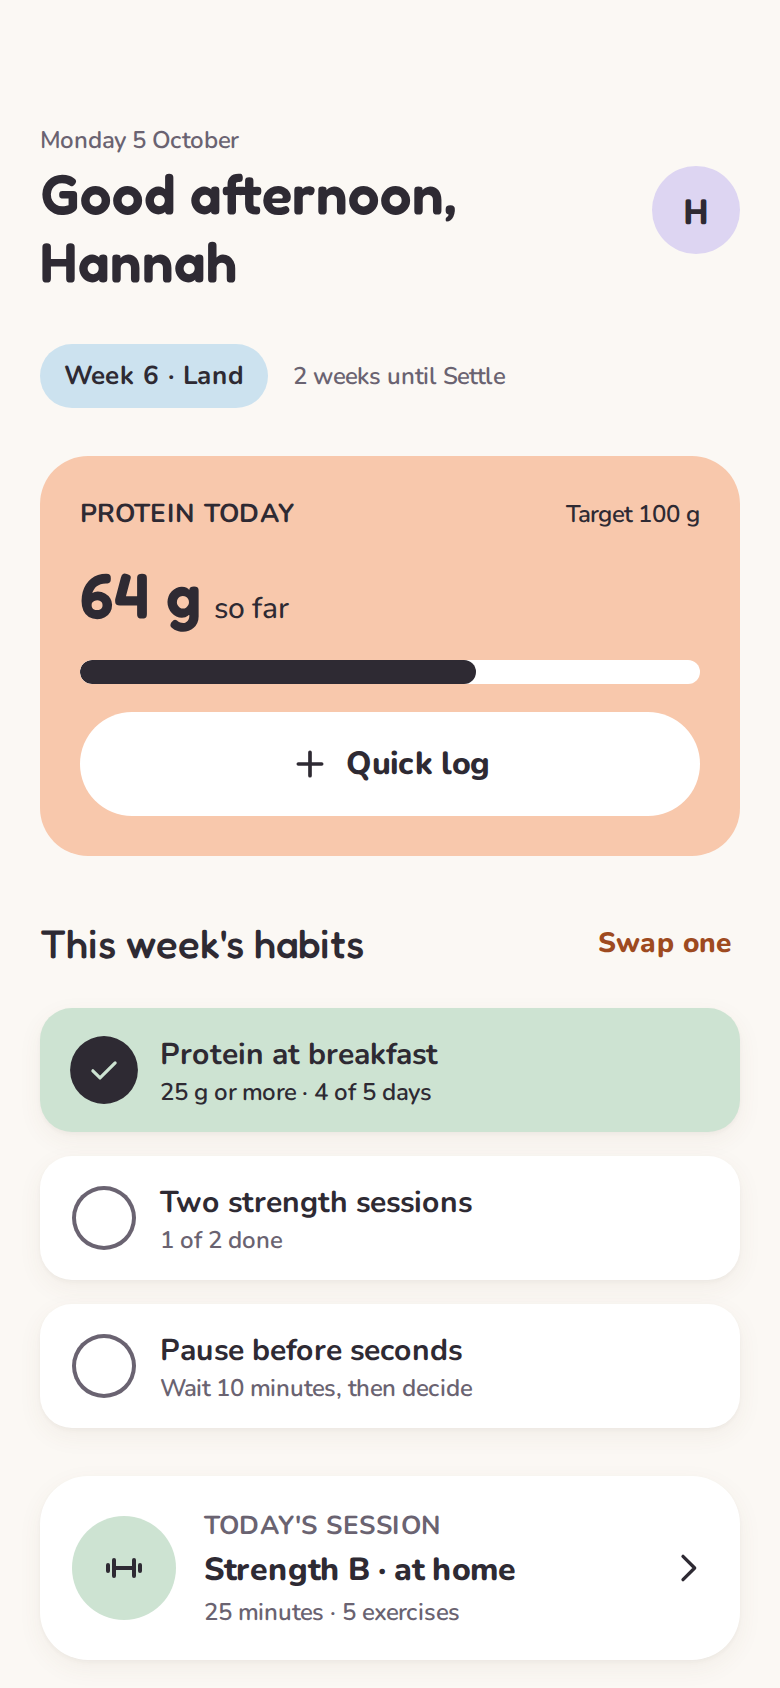
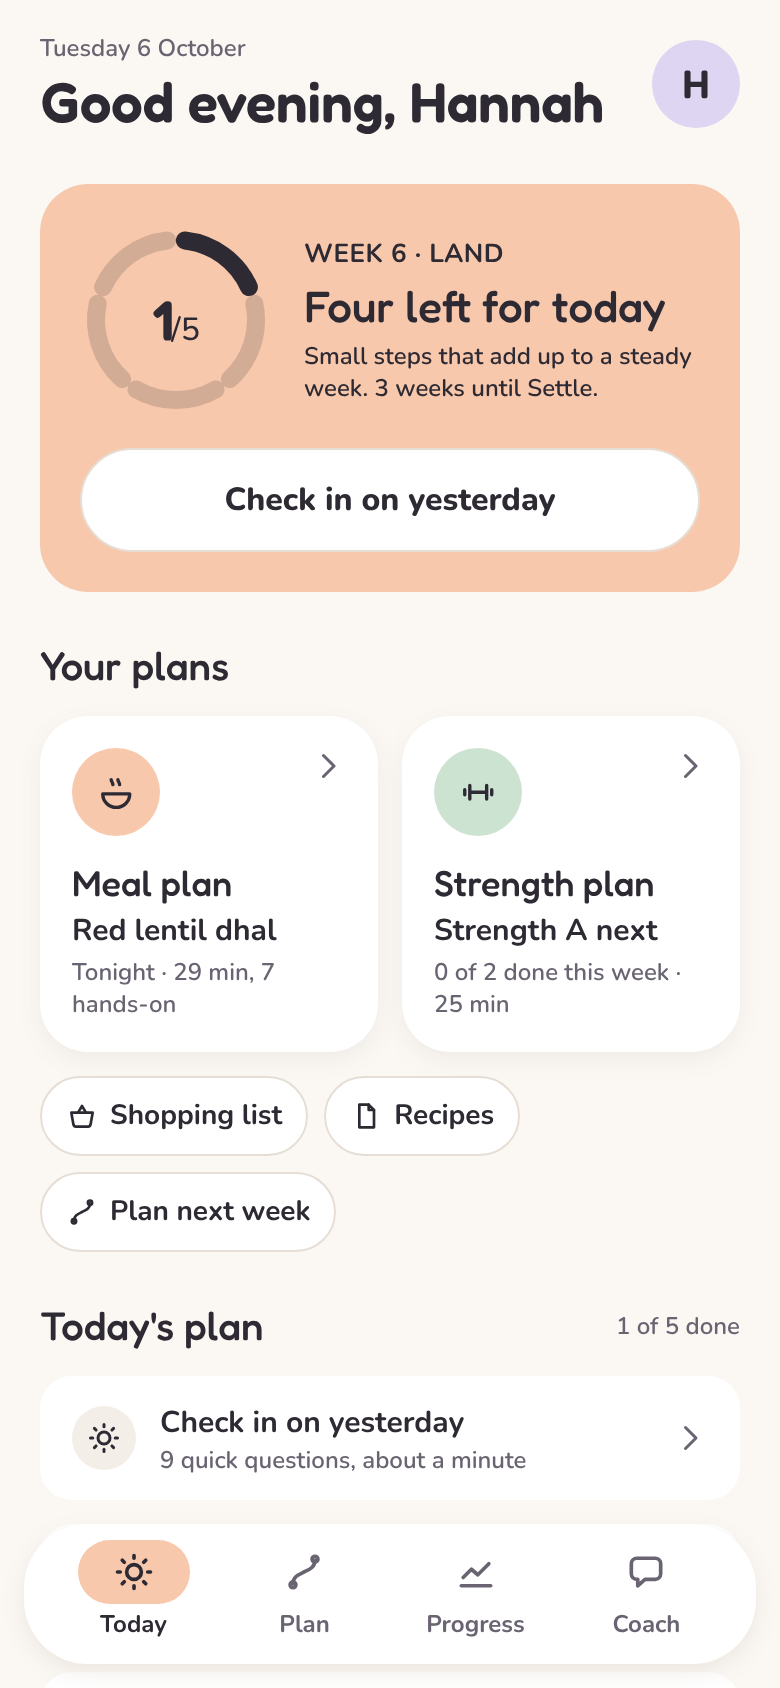
Bring the website up to date with the app
- Replace claims that are no longer true: "specialist-reviewed" and the
  specialists section become "Careful by design" (the health check, gentler
  sessions, food that fits your health), and "data kept in the UK and EU"
  becomes "your data stays on your phone".
- Add the morning check-in, reminders and Apple Health, weekly lessons and
  sessions that step up; drop the 80-exercise and seated or gym claims the
  app doesn't make yet.
- New FAQs on health conditions and where data is kept.
- The hero phone shows the new Today screen.

Claude-Session: https://claude.ai/code/session_01AV66JMDACUJL34nuHYoVE1

diff --git a/apps/web/app/page.tsx b/apps/web/app/page.tsx
@@ -26,6 +26,8 @@ const ICONS = {
   phone: '<rect x="6.5" y="2.5" width="11" height="19" rx="3"/><path d="M11 18.5h2"/>',
   gift: '<rect x="4" y="9" width="16" height="11" rx="2"/><path d="M12 9v11M4 13h16M12 9c-2-4-6-3-5-1s5 1 5 1zM12 9c2-4 6-3 5-1s-5 1-5 1z"/>',
   person: '<circle cx="12" cy="8" r="3.5"/><path d="M5 20c1-4 4-6 7-6s6 2 7 6"/>',
+  sun: '<circle cx="12" cy="12" r="4"/><path d="M12 3v1.5M12 19.5V21M3 12h1.5M19.5 12H21M5.6 5.6l1.1 1.1M17.3 17.3l1.1 1.1M5.6 18.4l1.1-1.1M17.3 6.7l1.1-1.1"/>',
+  bell: '<path d="M6 16.5V11a6 6 0 0 1 12 0v5.5l1.5 2h-15z"/><path d="M10 20.5a2 2 0 0 0 4 0"/>',
 };
 type IconName = keyof typeof ICONS;
 function Icon({ name, size = 24 }: { name: IconName; size?: number }) {
@@ -34,25 +36,27 @@ function Icon({ name, size = 24 }: { name: IconName; size?: number }) {
 
 const TRUST: { icon: IconName; text: string }[] = [
   { icon: "gift", text: "7-day free trial" },
-  { icon: "person", text: "Specialist-reviewed before launch" },
+  { icon: "heart", text: "A health check before you start" },
   { icon: "shield", text: "Works alongside your prescriber" },
-  { icon: "lock", text: "Data kept in the UK and EU" },
+  { icon: "lock", text: "Your data stays on your phone" },
   { icon: "phone", text: "Coming to iPhone" },
 ];
 
 const SUPPORT: { icon: IconName; tone: string; title: string; text: string }[] = [
-  { icon: "strength", tone: "sky", title: "Strength for every body", text: "Twenty-five-minute sessions at home, seated or at the gym, with an easier version of every move." },
+  { icon: "strength", tone: "sky", title: "Strength for every body", text: "Twenty-five-minute sessions at home that step up gently as you get stronger, with easier versions a tap away." },
   { icon: "meal", tone: "apricot", title: "Meals easier than a takeaway", text: "Fifteen minutes hands-on, six ingredients, one pan. Swaps for every diet and a shopping list for your supermarket." },
-  { icon: "habit", tone: "sage", title: "Three small habits a week", text: "Protein at breakfast, a session, a pause before seconds. Swap one if it doesn't suit your week." },
+  { icon: "habit", tone: "sage", title: "Three small habits a week", text: "Protein at breakfast, a session, a pause before seconds, with a short lesson each week. Swap one if it doesn't suit your week." },
+  { icon: "sun", tone: "sky", title: "A one-minute morning check-in", text: "A few questions about yesterday. Over a few weeks, Landing shows what goes with your fuller, steadier days." },
   { icon: "score", tone: "butter", title: "A weekly landing score", text: "It rewards steady habits, not weight loss, and notices drift early, kindly." },
   { icon: "coach", tone: "lilac", title: "A coach for tricky days", text: "Ideas for meals out, high-protein swaps and a calm word when a day doesn't go to plan." },
   { icon: "doc", tone: "rose", title: "A summary for your prescriber", text: "A one-page update to take to appointments. Landing never gives advice about doses or stopping." },
+  { icon: "bell", tone: "butter", title: "Gentle reminders, and Apple Health", text: "Nudges at times that suit you, never about weight. Bring in your weight and steps from Apple Health if you like." },
 ];
 
 const STEPS = [
-  { title: "Answer a few questions", text: "Two minutes on when you stopped, how you like to move and what you eat. No weigh-in needed." },
+  { title: "Answer a few questions", text: "A few minutes on when you stopped, a quick health check, and how you like to eat. No weigh-in needed." },
   { title: "Get your 12-month plan", text: "Three phases, three small habits a week and short strength sessions that fit your week and your body." },
-  { title: "Keep it, with support", text: "A weekly landing score, a coach for tricky days and a lighter reset week if things start to drift." },
+  { title: "Keep it, with support", text: "A morning check-in, a weekly landing score and a coach for tricky days, with a calm plan if things start to drift." },
 ];
 
 const PHASES = [
@@ -70,26 +74,28 @@ const BRIEFS: Record<string, { build: string; move: string; ids: string[] }> = {
   grace: { build: "Fuller build", move: "Low-impact, knee-friendly sessions", ids: ["hinge-1", "squat-3"] },
 };
 
-const EXPERTS = [
-  { role: "Physiotherapist", icon: "strength", body: "HCPC-registered", text: "Reviews every exercise, the easier and harder versions, and how the plan adapts around aches and injuries." },
-  { role: "Dietitian", icon: "meal", body: "BDA member", text: "Reviews protein and fibre guidance, every recipe swap, and the advice for diabetes, kidney disease and pregnancy." },
-  { role: "Eating-disorder specialist", icon: "coach", body: "Safe mode and language", text: "Reviews safe mode, the words we use and when Landing signposts extra support." },
-] as const;
+const SAFETY: { icon: IconName; title: string; text: string }[] = [
+  { icon: "heart", title: "A health check first", text: "A few questions before you start, and again every 12 weeks. If something needs a word with your GP, strength sessions wait while food and habits carry on." },
+  { icon: "strength", title: "Gentler when you need it", text: "Sore joints, a fall or feeling wiped out after activity? Sessions start with the easier version of each move and step up only when you're ready." },
+  { icon: "meal", title: "Food that fits your health", text: "Pregnancy, kidney disease, diabetes and high blood pressure each switch on the right food settings. For pregnancy and kidney disease, we suggest who to talk to first." },
+];
 
 const PROMISES: { icon: IconName; title: string; text: string }[] = [
-  { icon: "heart", title: "No goal weight", text: "We help you hold steady, and offer a lighter week if things drift. Never a telling-off." },
-  { icon: "habit", title: "Numbers only if they help", text: "Safe mode hides weight entirely and builds your score from habits and hunger." },
+  { icon: "heart", title: "No goal weight", text: "We help you hold steady, and help you reset gently if things drift. Never a telling-off." },
+  { icon: "habit", title: "Numbers only if they help", text: "Safe mode hides weight entirely and builds your score from habits and check-ins." },
   { icon: "shield", title: "Your prescriber stays in charge", text: "Landing never gives advice about medication, doses or stopping treatment." },
-  { icon: "lock", title: "Your data stays yours", text: "Never sold, never used for ads. Delete everything in one tap." },
+  { icon: "lock", title: "Your data stays yours", text: "Kept on your phone, never sold, never used for ads. Export it or delete everything in one tap." },
 ];
 
 const FAQS = [
   { q: "Who is Landing for?", a: "Adults who have stopped a weight-loss jab such as Wegovy or Mounjaro, are stopping soon, or want a plan ready for when they do." },
   { q: "Is Landing medical advice?", a: "No. Landing is a general wellness app for building food, activity and eating habits. It doesn't diagnose or treat anything, and decisions about medication are always for your prescriber." },
   { q: "I'm still on my jab. Can I start now?", a: "Yes. Many people start building the habits before their last injection, so the routines are in place when appetite returns." },
-  { q: "Do I have to weigh myself?", a: "No. Weigh-ins are optional, and safe mode hides weight completely. Your weekly score can come from habits and hunger alone." },
-  { q: "What do I need for the exercises?", a: "Nothing but a chair to start. Every session works at home, seated or at the gym, and each move has an easier and a harder version." },
+  { q: "Do I have to weigh myself?", a: "No. Weigh-ins are optional, and safe mode hides weight completely. Your weekly score can come from habits and your morning check-ins alone." },
+  { q: "I have a health condition. Can I use Landing?", a: "Landing gives general guidance, not medical advice. A quick health check at the start suggests checking with your GP, midwife or specialist where it matters, pauses strength sessions until you have, and adjusts food and sessions to suit. It asks again every 12 weeks." },
+  { q: "What do I need for the exercises?", a: "Nothing but a chair and a bit of space at home to start. Most moves have an easier version, and sessions step up gently over the weeks as you get stronger." },
   { q: "Does it work with my diet?", a: "Every meal has swaps for vegetarian, vegan, gluten-free, dairy-free, halal and kosher eating, allergies and a microwave-only kitchen." },
+  { q: "Where is my data kept?", a: "On your phone. Landing doesn't have accounts and doesn't send what you log to us. You can export everything or delete it all from Settings. If you connect Apple Health, that information is never used for advertising or shared." },
   { q: "When can I use it, and what will it cost?", a: `Landing is coming to iPhone first. It will cost ${PRICE.yearly} a year after a 7-day free trial, or ${PRICE.monthly} a month. Join the waitlist and we'll email you once when it opens.` },
 ];
 
@@ -229,8 +235,8 @@ export default function Home() {
                 <p className={styles.statNote}>weeks of plan, counted from your last injection</p>
               </div>
               <div className={styles.statCard}>
-                <p className={styles.statBig}>80</p>
-                <p className={styles.statNote}>guided exercises at six levels, from a chair to the gym</p>
+                <p className={styles.statBig}>1</p>
+                <p className={styles.statNote}>minute each morning to check in on yesterday</p>
               </div>
               <div className={styles.statCard}>
                 <p className={styles.statBig}>3</p>
@@ -314,17 +320,16 @@ export default function Home() {
           </div>
         </section>
 
-        <section className={`${styles.section} ${styles.sunk}`} aria-labelledby="experts-title">
+        <section id="safety" className={`${styles.section} ${styles.sunk}`} aria-labelledby="safety-title">
           <div className={styles.wrap}>
             <div className={styles.headRow}>
-              <h2 id="experts-title" className={styles.h2Light}>Checked by specialists<br /><span className={styles.mutedHead}>before it reaches you</span></h2>
+              <h2 id="safety-title" className={styles.h2Light}>Careful by design<br /><span className={styles.mutedHead}>so the plan fits your body</span></h2>
             </div>
             <ul className={styles.experts}>
-              {EXPERTS.map((e) => (
-                <li key={e.role} className={styles.expert}>
+              {SAFETY.map((e) => (
+                <li key={e.title} className={styles.expert}>
                   <span className={styles.expertBadge}><Icon name={e.icon} /></span>
-                  <h3 className={styles.h3}>{e.role}</h3>
-                  <p className={styles.expertBody}>{e.body}</p>
+                  <h3 className={styles.h3}>{e.title}</h3>
                   <p className={styles.muted}>{e.text}</p>
                 </li>
               ))}
@@ -353,7 +358,7 @@ export default function Home() {
               <p className={styles.price}>{PRICE.yearly}<span> a year</span></p>
               <p className={styles.muted}>About {PRICE.weekly} a week. Or {PRICE.monthly} a month, with no free trial.</p>
               <ul className={styles.priceList}>
-                {["Your 12-month plan, phase by phase", "Strength sessions with all 80 exercises", "Easy meals, swaps and shopping lists", "Weekly landing score and reset weeks", "A coach for tricky days", "A summary for your prescriber"].map((x) => (
+                {["Your 12-month plan, with a lesson each week", "Strength sessions that step up as you do", "Easy meals, swaps and shopping lists", "A morning check-in and your weekly landing score", "A coach for tricky days", "A summary for your prescriber", "Reminders and Apple Health"].map((x) => (
                   <li key={x}><Icon name="check" size={18} />{x}</li>
                 ))}
               </ul>
